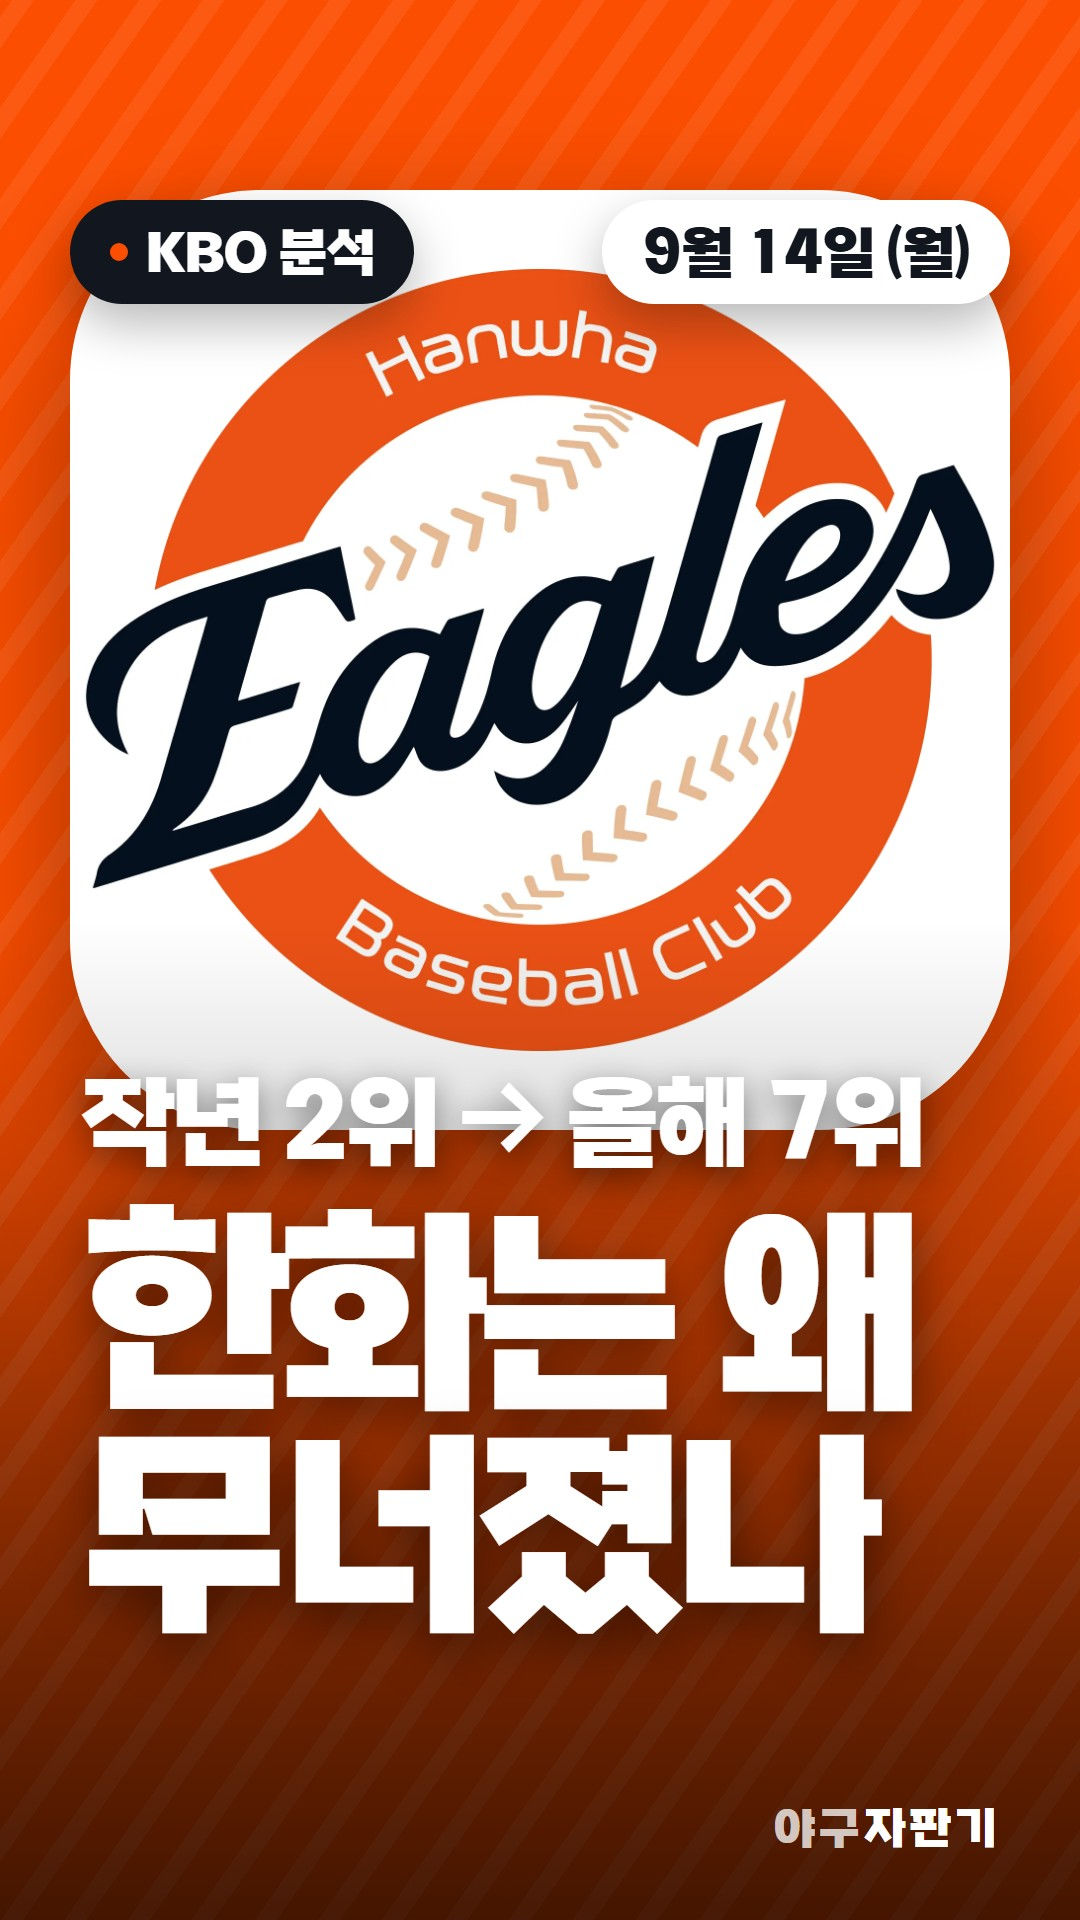
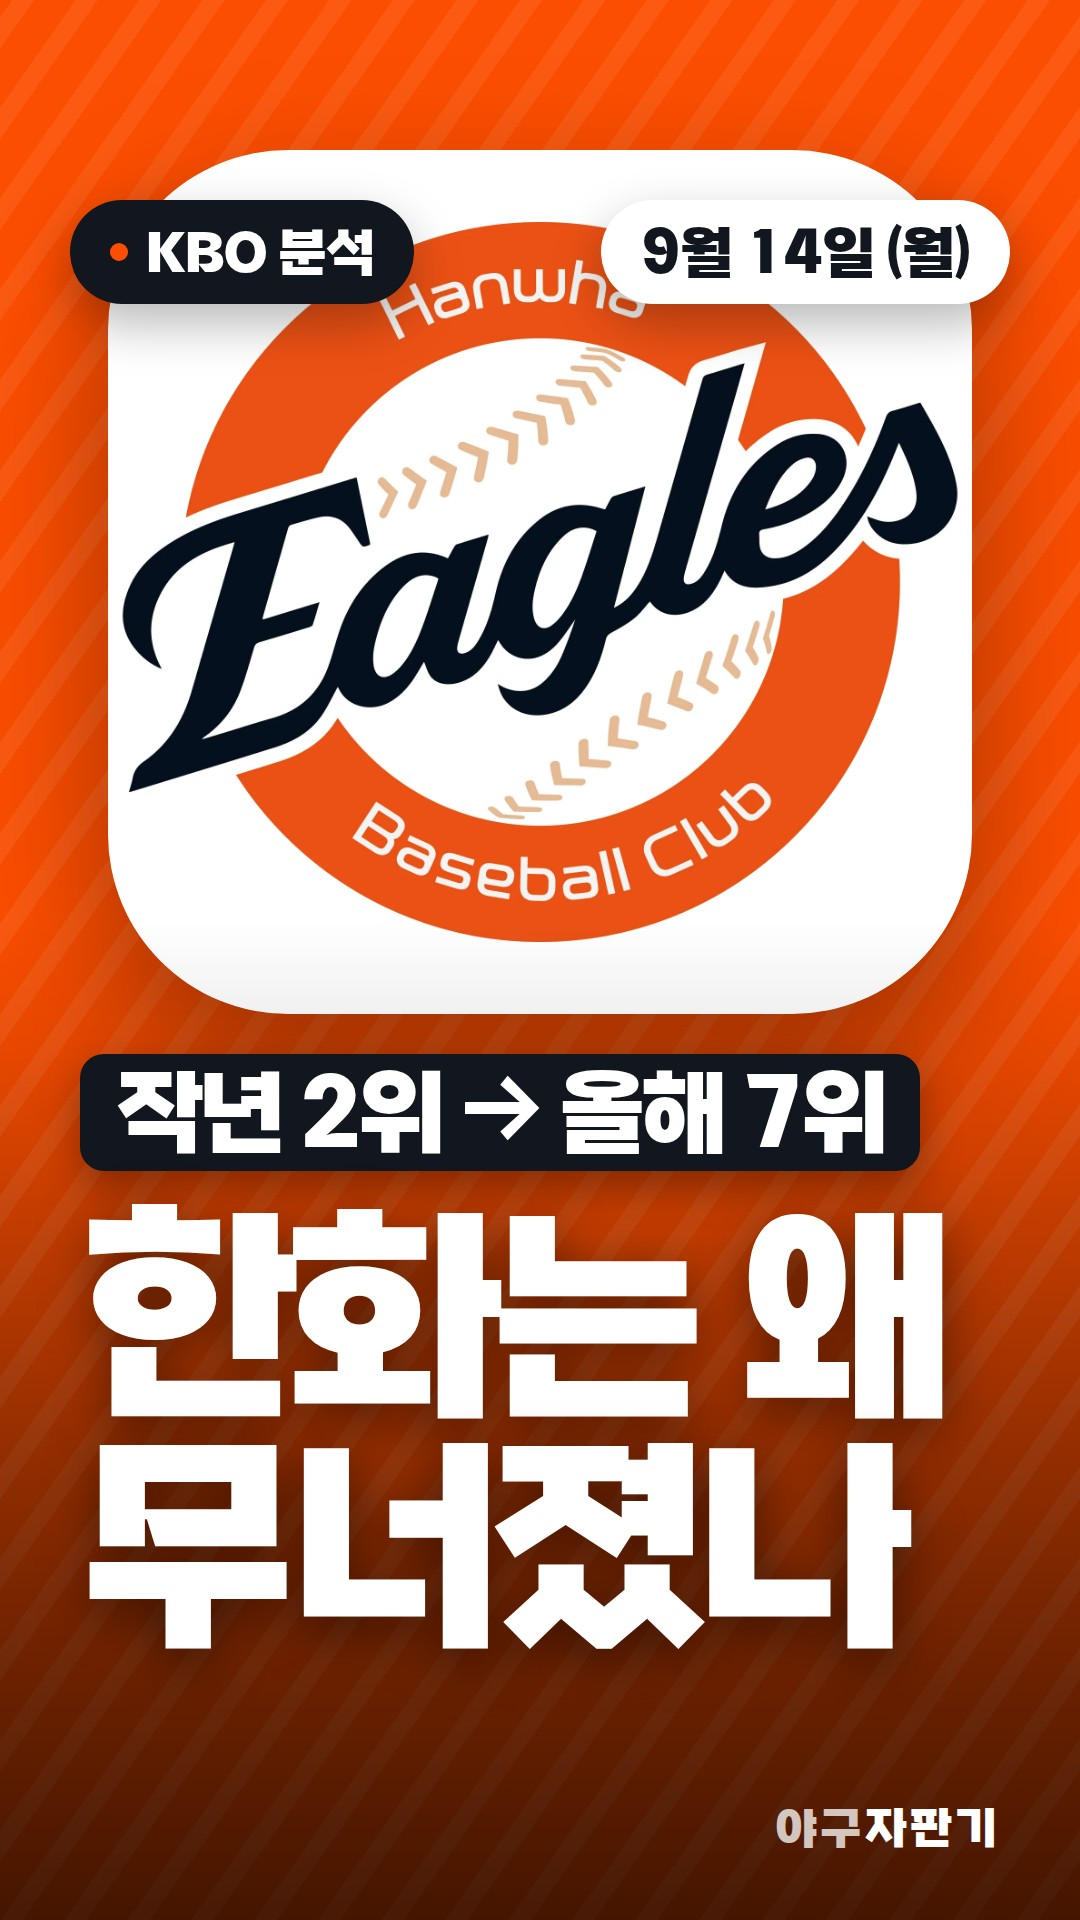
pc update

diff --git a/시스템/template_analysis.html b/시스템/template_analysis.html
@@ -1,7 +1,7 @@
 <!doctype html><html lang="ko"><head><meta charset="utf-8"><style>
 /* ===== 야구분석 전용 템플릿 (template_analysis.html, 9/15) =====
    이슈 템플릿(template_issue.html)과 같은 데이터 구조(window.EP)·같은 장면 이름을 쓰되 "리포트" 느낌으로:
-   · 위쪽 330px 은 주인공 팀 색(EP.focusTeam) 띠 — 흰 글씨 헤더 + 팀 로고 워터마크. 왼쪽엔 팀 색 세로 줄.
+   · 위쪽 340px 은 주인공 팀 색(EP.focusTeam) 띠 — 흰 글씨 헤더(왼쪽 세로 줄·'한화 ANALYSIS' 킥커는 9/15 사용자 요청으로 뺌).
    · 바탕은 따뜻한 종이색(#F6F4EF), 카드는 흰색에 팀 색 윗줄(border-top). 큰 숫자·강조 글씨 = 팀 색.
    · 번호 배지는 동그라미 대신 "이유 1" 같은 네모 라벨(s.num, s.numLabel — 기본 "이유"). 사용자 규칙: 글자를 붙이면 동그라미 숫자 안 씀.
    build.py 가 콘티 series 가 "야구분석" 이고 이 파일이 있으면 이 템플릿을 쓴다.
@@ -19,7 +19,6 @@ body{font-family:'KBO','Noto Sans CJK KR','Malgun Gothic','Apple SD Gothic Neo',
 #band{position:absolute;left:0;right:0;top:0;height:340px;background:var(--acc);overflow:hidden}
 #band .wm{position:absolute;right:0;top:0;width:560px;height:340px;background:repeating-linear-gradient(-55deg,rgba(255,255,255,0) 0 26px,rgba(255,255,255,.10) 26px 40px);-webkit-mask-image:linear-gradient(90deg,rgba(0,0,0,0),#000 70%);mask-image:linear-gradient(90deg,rgba(0,0,0,0),#000 70%)}
 #band .cut{position:absolute;left:0;right:0;bottom:0;height:16px;background:rgba(0,0,0,.18)}
-#rail{position:absolute;left:0;top:340px;bottom:0;width:22px;background:var(--acc);opacity:.9}
 #hdr{position:absolute;left:90px;right:90px;top:222px;height:94px;display:flex;align-items:center;justify-content:space-between}
 #brand{display:flex;align-items:center;gap:16px;font-size:50px;font-weight:900;letter-spacing:-1px;color:#fff}
 #brand .m{width:12px;height:44px;border-radius:6px;background:#fff}
@@ -27,10 +26,8 @@ body{font-family:'KBO','Noto Sans CJK KR','Malgun Gothic','Apple SD Gothic Neo',
 #meta{text-align:right;line-height:1.15}
 #meta .t{font-size:44px;font-weight:900;letter-spacing:2px;color:#fff}
 #meta .d{font-size:36px;font-weight:600;color:rgba(255,255,255,.82);letter-spacing:1px}
-#kicker{position:absolute;left:90px;top:120px;display:flex;align-items:center;gap:14px;font-size:30px;font-weight:800;letter-spacing:4px;color:rgba(255,255,255,.85)}
-#kicker .ln{width:70px;height:4px;background:rgba(255,255,255,.7);border-radius:2px}
 /* 본문 */
-#body{position:absolute;left:100px;width:900px;top:400px;height:820px;will-change:opacity,transform;
+#body{position:absolute;left:90px;width:900px;top:400px;height:820px;will-change:opacity,transform;
   display:flex;flex-direction:column;align-items:center;justify-content:center;text-align:center}
 /* 자막: 밝은 바탕이라 짙은 상자에 흰 글씨 */
 #sub{position:absolute;left:70px;right:70px;top:1270px;text-align:center}
@@ -78,8 +75,6 @@ body{font-family:'KBO','Noto Sans CJK KR','Malgun Gothic','Apple SD Gothic Neo',
 </style></head><body>
 <div id="stage">
   <div id="band"><div class="wm" id="wm"></div><div class="cut"></div></div>
-  <div id="rail"></div>
-  <div id="kicker"><div class="ln"></div><div>ANALYSIS REPORT</div></div>
   <div id="hdr">
     <div id="brand"><div class="m" id="brandBar"></div><div>야구<b>자판기</b></div></div>
     <div id="meta"><div class="t" id="railTitle">KBO 분석</div><div class="d num" id="railDate"></div></div>
@@ -105,7 +100,6 @@ const _ft = T(EP.focusTeam || '');
 const GREEN = '#16A34A', RED = '#E5484D', GRAY = '#6B6F78', LINE = '#E4E0D7', TXT = '#141821';
 document.getElementById('railDate').textContent = EP.dateLabel || '';
 if (EP.railTitle) document.getElementById('railTitle').textContent = EP.railTitle;
-document.getElementById('kicker').lastElementChild.textContent = (EP.kicker || (EP.focusTeam ? `${_ft.nm} ANALYSIS` : 'ANALYSIS REPORT'));
 const WRS = D.map(t => t.wr);
 const LO = Math.min(...WRS, .4) - .03, HI = Math.max(...WRS, .6) + .02, BM = 330;
 

diff --git a/시스템/thumb_analysis.html b/시스템/thumb_analysis.html
@@ -10,10 +10,10 @@ body{font-family:'KBO','Noto Sans CJK KR','Malgun Gothic',sans-serif;font-weight
 .bg{position:absolute;inset:0}
 .stripe{position:absolute;inset:0;background:repeating-linear-gradient(-55deg,rgba(255,255,255,0) 0 34px,rgba(255,255,255,.07) 34px 52px)}
 .pill{position:absolute;display:inline-flex;align-items:center;gap:18px;height:104px;padding:0 40px;border-radius:52px;font-size:52px;letter-spacing:-1px;white-space:nowrap;box-shadow:0 20px 50px rgba(0,0,0,.28)}
-.logo{position:absolute;left:70px;width:940px;height:940px;border-radius:190px;overflow:hidden;background:#fff;box-shadow:0 60px 140px rgba(0,0,0,.35)}
+.logo{position:absolute;left:50%;transform:translateX(-50%);border-radius:180px;overflow:hidden;background:#fff;box-shadow:0 60px 140px rgba(0,0,0,.35)}
 .logo img{width:100%;height:100%;object-fit:contain;display:block}
 .shade{position:absolute;left:0;right:0;bottom:0;height:1000px;background:linear-gradient(180deg,rgba(0,0,0,0) 0%,rgba(0,0,0,.28) 45%,rgba(0,0,0,.62) 100%)}
-.top{position:absolute;left:80px;right:80px;font-size:100px;letter-spacing:-4px;line-height:1.05;color:#fff;white-space:nowrap;text-shadow:0 8px 30px rgba(0,0,0,.45)}
+.top{position:absolute;left:80px;font-size:92px;letter-spacing:-4px;line-height:1.05;color:#fff;white-space:nowrap;background:#12161F;padding:10px 36px;border-radius:24px;box-shadow:0 16px 40px rgba(0,0,0,.35)}
 .bigw{position:absolute;left:80px;right:80px;font-size:230px;letter-spacing:-11px;line-height:1.0;white-space:nowrap;font-weight:900;text-shadow:0 14px 50px rgba(0,0,0,.5)}
 .bar{position:absolute;left:80px;width:220px;height:22px;border-radius:11px;background:#fff}
 .brand{position:absolute;right:80px;bottom:70px;font-size:44px;letter-spacing:4px;color:rgba(255,255,255,.75)}
@@ -36,13 +36,13 @@ const dateText=(()=>{ if(TH.date) return TH.date; let d=new Date((EP.gameDate||E
   if(!EP.gameDate && d.getDay()!==2) d.setDate(d.getDate()-1);
   return `${d.getMonth()+1}월 ${d.getDate()}일 (${'일월화수목금토'[d.getDay()]})`; })();
 const bigLines=String(TH.big||'').split('\n').length;
-const BIG_H = 230*bigLines, TOP_H = 100*String(TH.top||'').split('\n').length;
-const yBig = 1660 - BIG_H, yTop = yBig - 30 - TOP_H, yBar = yTop - 50;   // 안전 영역 아래 1660 에 맞춰 위로 쌓는다
-const LOGO_Y = 190;   // 로고는 위 안전 영역(190)부터 화면 폭 가득
+const BIG_H = 230*bigLines, TOP_H = 92*String(TH.top||'').split('\n').length + 20;
+const yBig = 1660 - BIG_H, yTop = yBig - 34 - TOP_H;   // 안전 영역 아래 1660 에 맞춰 위로 쌓는다
+const LOGO_Y = 150, LOGO_S = Math.min(940, yTop - 40 - LOGO_Y);   // 로고는 글과 겹치지 않게(9/15: 흰 로고 바탕과 흰 글씨가 겹쳐 안 보임) — 글 위 40px 까지만
 const st=document.getElementById('st');
 st.insertAdjacentHTML('beforeend',`
   <div class="bg" style="background:linear-gradient(180deg,${c1} 0%,${c1} 55%,${dark(c1,.72)} 100%)"></div><div class="stripe"></div>
-  <div class="logo" style="top:${LOGO_Y}px"><img src="${logo(teams[0])}"></div>
+  <div class="logo" style="top:${LOGO_Y}px;width:${LOGO_S}px;height:${LOGO_S}px"><img src="${logo(teams[0])}"></div>
   <div class="shade"></div>
   <div class="pill" style="left:70px;top:200px;background:#12161F;color:#fff"><span style="width:18px;height:18px;border-radius:9px;background:${c1};display:inline-block"></span>${esc(EP.railTitle||"KBO 분석")}</div>
   <div class="pill" style="right:70px;top:200px;background:#fff;color:#12161F;font-size:56px">${esc(dateText)}</div>
